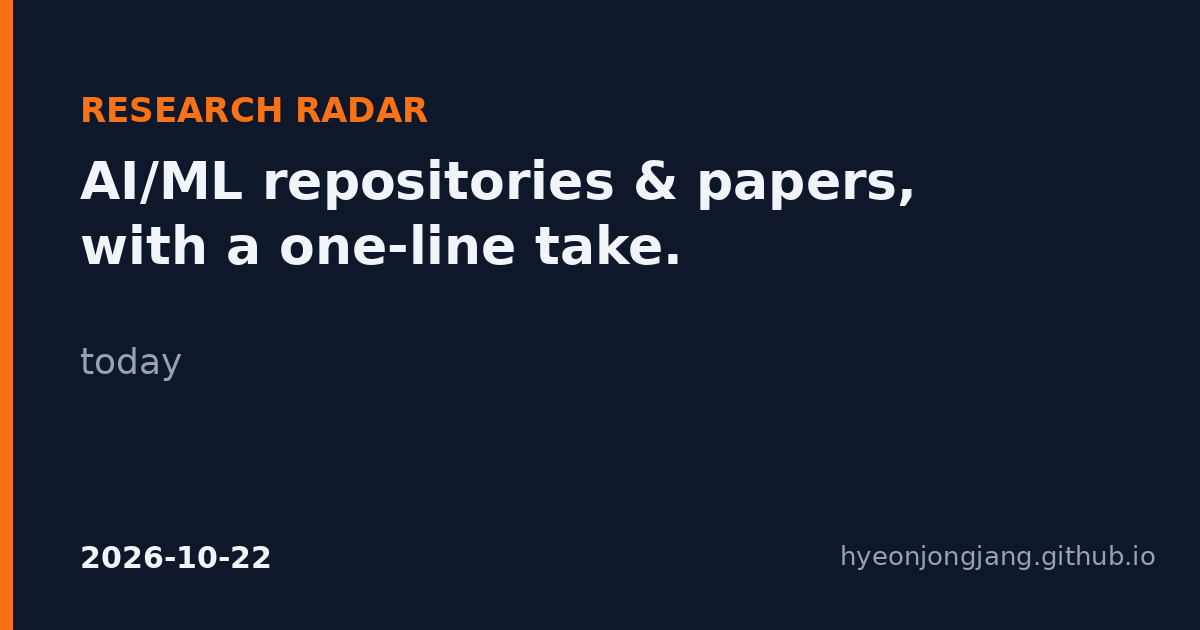
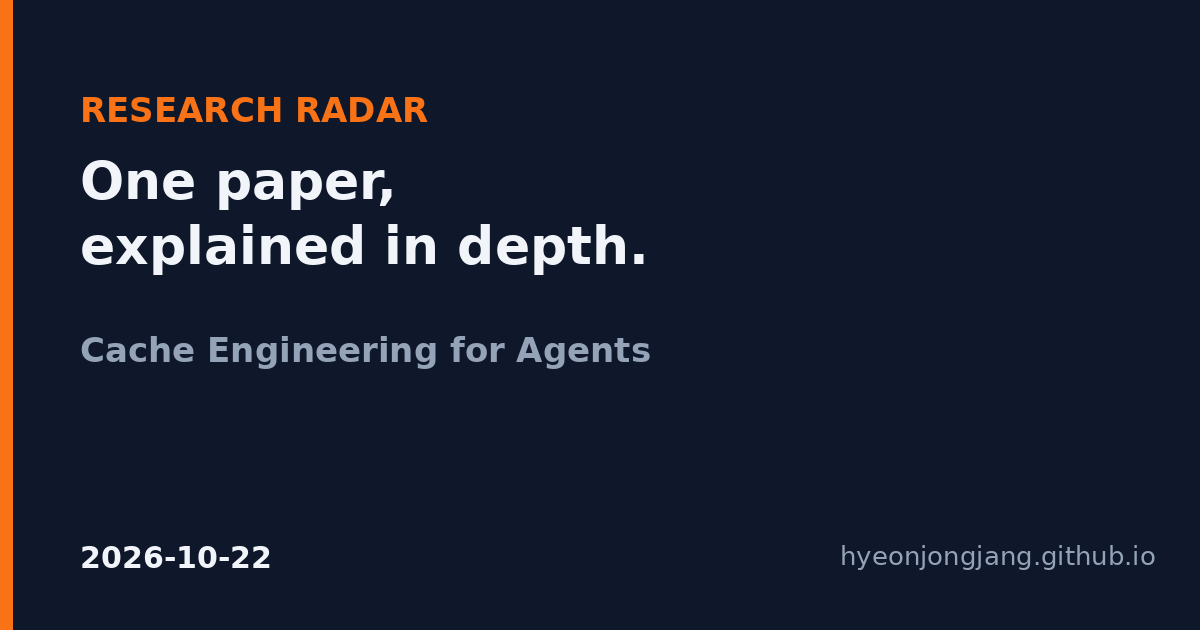
Research Radar — Cache Engineering for Agents (first deep-dive; replaces digest)
Claude-Session: https://claude.ai/code/session_01185ZjdGLJL2aTpAjwBrivJ

Changed region(s): [[0.0617, 0.2413, 0.7708, 0.4524], [0.0617, 0.5127, 0.555, 0.6032]]

diff --git a/_posts/2026-10-22-research-radar.md b/_posts/2026-10-22-research-radar.md
@@ -1,12 +1,12 @@
 ---
-title: "Research Radar — Oct 22, 2026"
+title: "Cache Engineering for Agents: letting LLM agents manage their own KV cache"
 date: 2026-10-22
-excerpt: "ESP32-based iPhone automation, audio for coding agents, and a quant-trading benchmark where no LLM beats the market."
+excerpt: "Agents directly control their KV cache with drop and reposition operations, avoiding costly re-prefill while retaining more useful context."
 tags:
-  - research-radar
+  - paper-dive
+  - kv-cache
   - llm-agents
-  - hardware-automation
-  - quantitative-finance
+  - inference-efficiency
 header:
   teaser: /images/radar/2026-10-22-card.png
 lang: en
@@ -15,93 +15,102 @@ translated_url: /blog/2026-10-22-research-radar-ko/
 
 [EN](/blog/2026-10-22-research-radar/) · [한국어](/blog/2026-10-22-research-radar-ko/)
 
-*A $7 iPhone agent hack, ears for coding assistants, and a quant benchmark that humbles frontier models.*
+*Agents can directly drop and reposition entries in their KV cache — no text rewriting, no re-prefill — improving both accuracy and cost over conventional context summarization.*
 
-## Repositories
+## The problem
 
-### esp32-iphone-agent — $7 ESP32 turns an iPhone into an AI-controlled device
-[`onehumanbeing/esp32-iphone-agent`](https://github.com/onehumanbeing/esp32-iphone-agent) · C · 3,496 stars
+LLM agents tackle complex tasks by building up long trajectories of reasoning steps, tool calls, and observations. Each new step conditions on the full history via the key-value (KV) cache — the data structure that stores previous tokens' representations so the model doesn't recompute them from scratch.
 
-- **What's new:** Uses AirPlay for screen capture and USB HID for input, letting any OpenAI-compatible vision model operate a real iPhone through a $7 ESP32. No Mac, developer account, or jailbreak required.
-- **Why it matters:** Drops the cost of phone-based agent research from expensive setups to commodity hardware.
-- **Caveat:** README-only read; no data on latency, reliability, or which tasks the agent can actually complete.
-- **Take:** Clever reuse of AirPlay + HID to sidestep Apple's walled garden — curious how long before it gets patched out.
+As trajectories grow, the KV cache becomes expensive. According to the paper, KV cache reads account for 82.4% of total API cost in their agent workload analysis. Beyond cost, when the number of cached states or their positional range exceeds what the LLM handles reliably, task accuracy degrades.
 
-### earshot — audio perception for coding agents
-[`Leonxlnx/earshot`](https://github.com/Leonxlnx/earshot) · Python · 2,061 stars
+The standard fix is *context engineering*: trim or summarize older messages to shrink the context. But editing any earlier part of the trajectory invalidates all KV states computed after that point. The serving system must re-prefill — recompute — the retained suffix, and the earlier the edit, the more recomputation is needed.
 
-- **What's new:** Gives coding agents the ability to hear, review, and generate sound, running entirely on CPU with no GPU requirement.
-- **Why it matters:** Most agent toolkits treat the world as text and images; adding audio opens tasks like debugging sonification pipelines or reviewing media output.
-- **Caveat:** README-only read; scope of supported audio tasks and integration with existing agent frameworks is unclear.
-- **Take:** A niche but real gap — agents that can't hear can't verify anything that makes noise.
+In practice, agent harnesses defer context reduction until a threshold is hit, then aggressively cut most history, keeping only a few recent rounds. This creates a dilemma: retain too much and pay for re-prefill, retain too little and lose information the agent needs.
 
-## Papers
+On the BrowseComp-Plus benchmark with GPT-OSS-120B, summary-based context engineering at a 48K-token threshold reduced cost by about 7% but dropped accuracy by 5 percentage points compared to full-context inference.
 
-### Quant-Arena: Benchmarking LLM Agents for Quantitative Trading Research
-[arXiv 2610.30113v1](http://arxiv.org/abs/2610.30113v1) · Qian et al. · 2026
+## The core idea
 
-- **Claim:** Proposes an end-to-end benchmark on real A-share data where LLMs build features, write scoring code with 2022–2023 feedback, then freeze one strategy for sealed 2024 evaluation. Nine frontier models tested; GPT-6 Astra scored highest, yet none beat the equal-weight market in 2024.
-- **Why it matters:** Tests the full quant-research loop with a sealed out-of-sample year, raising the bar above formula- or code-only benchmarks.
-- **Caveat:** Abstract-only read; A-share market specifics may limit generalizability; order-book impact is simulated.
-- **Take:** The headline — no model beats a naive baseline on unseen data — is the most useful number here.
+Cache engineering flips the approach. Instead of editing the *text* of the trajectory and recomputing downstream cache, the agent edits the *cache itself* — marking certain KV entries as invisible to future attention — while leaving the text trajectory untouched.
 
-## Sources
+Here is an analogy (mine, not the authors'): imagine you're in a long meeting with detailed minutes being kept. Context engineering is like going back and crossing out paragraphs in the minutes, then asking everyone to re-read from the edit point to get back on track. Cache engineering is more like putting on selective noise-canceling headphones: the minutes stay intact, but you stop listening to certain earlier speakers. Everyone's prior responses still carry traces of what those speakers said — they just no longer get direct attention going forward.
 
-- [onehumanbeing/esp32-iphone-agent](https://github.com/onehumanbeing/esp32-iphone-agent)
-- [Leonxlnx/earshot](https://github.com/Leonxlnx/earshot)
-- [Quant-Arena: Benchmarking LLM Agents for Quantitative Trading Research (arXiv 2610.30113v1)](http://arxiv.org/abs/2610.30113v1)
+This matters because retained KV states can still carry information from dropped history, since they were originally computed with attention to it. The paper cites prior work (Xiao et al., 2024; Fu et al., 2026; Zou et al., 2025) supporting this residual-information property. Dropping a cache entry is less destructive than deleting the text that produced it.
 
----
+The paper introduces three cache operations — **append**, **drop**, and **repos** (reposition) — and co-designs a serving engine called **AKV** that makes this scheme practical.
 
----
-title: "Research Radar — 2026년 10월 22일"
-date: 2026-10-22
-excerpt: "ESP32 기반 iPhone 자동화, 코딩 에이전트를 위한 오디오, 그리고 어떤 LLM도 시장을 이기지 못한 퀀트 벤치마크."
-tags:
-  - research-radar
-  - llm-agents
-  - hardware-automation
-  - quantitative-finance
-header:
-  teaser: /images/radar/2026-10-22-card.png
-lang: ko
-translated_url: /blog/2026-10-22-research-radar/
----
+## How it works
 
-[EN](/blog/2026-10-22-research-radar/) · [한국어](/blog/2026-10-22-research-radar-ko/)
+### The three cache operations
 
-*7달러짜리 iPhone 에이전트 해킹, 코딩 어시스턴트를 위한 청각, 프런티어 모델을 겸손하게 만드는 퀀트 벤치마크.*
+**Append** is the standard operation: process a new token, compute its KV entry conditioned on the active cache, and concatenate it to the cache. Every LLM serving system already does this.
 
-## 저장소
+**Drop** removes selected KV entries from future attention. It does *not* change retained entries' states or position encodings, and it does *not* modify the logical token sequence. The text history stays the same; only the cache visible to subsequent attention shrinks.
 
-### esp32-iphone-agent — 7달러 ESP32로 iPhone을 AI 제어 장치로 전환
-[`onehumanbeing/esp32-iphone-agent`](https://github.com/onehumanbeing/esp32-iphone-agent) · C · 3,496 스타
+**Repos** (reposition) updates the position encodings stored in cached keys. After dropping entries, position indices can have gaps or grow large enough to hit the model's context limit even though the actual cache is small. Repos compacts them: with $$ r $$ entries remaining, their position indices become 0 through $$ r-1 $$, and the next appended token uses index $$ r $$. For models using Rotary Position Embeddings (RoPE), this is achieved by rotating cached keys without recomputing hidden states.
 
-- **새로운 점:** AirPlay로 화면을 캡처하고 USB HID로 입력을 전달하여, OpenAI 호환 비전 모델이 7달러짜리 ESP32를 통해 실제 iPhone을 조작할 수 있게 한다. Mac, 개발자 계정, 탈옥 모두 불필요.
-- **왜 중요한가:** 폰 기반 에이전트 연구 비용을 고가 장비에서 범용 하드웨어 수준으로 낮춘다.
-- **주의점:** README만 확인함; 지연시간, 안정성, 실제 수행 가능한 작업 범위에 대한 데이터 없음.
-- **Take:** AirPlay + HID를 활용해 Apple의 폐쇄 생태계를 우회하는 영리한 접근 — Apple이 얼마나 빨리 막을지 궁금하다.
+### The history dependence problem
 
-### earshot — 코딩 에이전트를 위한 오디오 인식
-[`Leonxlnx/earshot`](https://github.com/Leonxlnx/earshot) · Python · 2,061 스타
+With standard KV caching, the token prefix fully determines the cache state — if two requests share the same token prefix, they share the same cache. Cache engineering breaks this property.
 
-- **새로운 점:** 코딩 에이전트에게 소리를 듣고, 검토하고, 생성하는 능력을 부여하며, GPU 없이 CPU만으로 동작한다.
-- **왜 중요한가:** 대부분의 에이전트 툴킷은 텍스트와 이미지만 다루는데, 오디오를 추가하면 음향 파이프라인 디버깅이나 미디어 출력 검토 같은 작업이 가능해진다.
-- **주의점:** README만 확인함; 지원하는 오디오 작업 범위와 기존 에이전트 프레임워크와의 통합 수준이 불분명.
-- **Take:** 틈새지만 실재하는 공백 — 들을 수 없는 에이전트는 소리를 내는 것을 검증할 수 없다.
+An analogy (mine, not the authors'): think of two chefs following the same recipe with the same final ingredient list, but one added salt before sautéing the onions while the other added it after. The final dishes share the same ingredients on paper, but taste different because the salt changed how earlier steps proceeded. Similarly, two trajectories can retain the same tokens at the same positions, yet have different cache states because drop and append operations occurred in different orders.
 
-## 논문
+The paper illustrates this concretely (see Figure 5 in the paper): three trajectories all retain tokens B and C. In trajectory 1, C is computed while A is still in the cache. In trajectory 2, A is dropped before C is appended. In trajectory 3, B is computed without A entirely. C's KV states differ in all three cases because the attention context during C's computation differed.
 
-### Quant-Arena: Benchmarking LLM Agents for Quantitative Trading Research
-[arXiv 2610.30113v1](http://arxiv.org/abs/2610.30113v1) · Qian et al. · 2026
+Prefix matching — the standard technique for cache reuse in serving systems — is therefore no longer sufficient.
 
-- **주장:** 실제 A주 시장 데이터에서 LLM이 피처를 구축하고, 2022–2023 피드백으로 스코어링 코드를 작성한 뒤, 봉인된 2024년 평가용 전략을 확정하는 엔드투엔드 벤치마크를 제안한다. 9개 프런티어 모델을 테스트한 결과, GPT-6 Astra가 최고점을 기록했으나 어떤 모델도 2024년에 동일가중 시장 수익률을 넘지 못했다.
-- **왜 중요한가:** 수식·코드 단위 벤치마크를 넘어, 봉인된 표본외 기간으로 전체 퀀트 연구 루프를 검증한다.
-- **주의점:** 초록만 확인함; A주 시장의 특수성이 일반화를 제한할 수 있으며, 호가창 충격 모델은 시뮬레이션 기반.
-- **Take:** 어떤 모델도 미지 데이터에서 단순 기준선을 이기지 못했다는 헤드라인 결과가 이 논문에서 가장 유용한 숫자다.
+### The AKV serving engine
 
-## 출처
+AKV follows a principle the authors call *stateless interface, stateful serving*. The agent submits requests in a familiar format — a messages array plus an optional cache field specifying drop and repos operations — without tracking what the server has physically cached. The server handles all the complexity internally.
 
-- [onehumanbeing/esp32-iphone-agent](https://github.com/onehumanbeing/esp32-iphone-agent)
-- [Leonxlnx/earshot](https://github.com/Leonxlnx/earshot)
-- [Quant-Arena: Benchmarking LLM Agents for Quantitative Trading Research (arXiv 2610.30113v1)](http://arxiv.org/abs/2610.30113v1)
+AKV addresses three challenges:
+
+**Correct reuse** via an extended radix tree. Standard radix trees index cache by token prefix. AKV inserts *drop nodes* at points where drop operations occur, branching the tree so that trajectories with different operation histories maintain distinct cache states.
+
+**Safe eviction** with drop-awareness. When a request drops a cache entry, other requests sharing the same prefix might still need it. AKV frees physical storage only when no ongoing request needs the entry, and prioritizes evicting dropped cache over cache from completed requests (which is more likely to be reused in the next round).
+
+**Efficient restoration** via segment-batch attention. When evicted cache must be restored, AKV reconstructs it in a single forward pass by splitting queries at operation boundaries. Each segment attends causally to its own tokens and to active cache from earlier segments, respecting the history of drops and repositions. Only attention is segmented; the FFN processes the full sequence as one batch, avoiding redundant weight reads.
+
+## The math
+
+The drop operation on the active cache is defined as:
+
+$$\operatorname{drop}(P): \quad \mathcal{C} \leftarrow \mathcal{C} \setminus \{C_i : i \in P\}$$
+
+Here $$ \mathcal{C} $$ is the active cache — the ordered set of KV entries available to future attention. $$ P $$ is the set of logical token indices selected for removal. $$ C_i $$ is the cache entry for the token at index $$ i $$. The backslash ($$ \setminus $$) denotes set removal: take the active cache and discard every entry whose index is in $$ P $$, preserving the order of what remains. After this operation, subsequent tokens cannot attend to the dropped entries, but the dropped entries' influence persists indirectly in retained entries that were computed while those entries were still active.
+
+The repos operation adjusts position encodings via RoPE rotation:
+
+$$K \leftarrow R(q) \, R(p)^{-1} \, K$$
+
+$$ K $$ is a cached key vector. $$ p $$ is its current position encoding index. $$ q $$ is the target position index. $$ R(p) $$ is the RoPE rotation matrix at position $$ p $$ — the matrix that encodes positional information into keys during the original computation. $$ R(p)^{-1} $$ undoes the original rotation, and $$ R(q) $$ applies the new one. The whole expression moves the key from position $$ p $$ to position $$ q $$ without recomputing the hidden state that produced it. Cached values remain unchanged since RoPE applies only to keys and queries, not values.
+
+## Results
+
+The authors evaluate across three LLMs — MiniMax-M2.7 (230B total, 10B active parameters), GPT-OSS-120B (5.1B active), and MiroThinker-1.7-Mini (30B total, 3B active) — on four benchmarks: BrowseComp-Plus (deep research), GAIA-Text (general QA), SWE-bench Verified (software engineering), and xbench-DeepSearch-2510 (deep search).
+
+**Accuracy.** AKV's tool-response rolling-drop policy (retaining the 12 most recent tool responses' KV) improves the average benchmark score by 1.7 points over the Standard baseline and by 0.9 to 8.7 points over Text Engineering, depending on the model. Gains are most pronounced on longer trajectories: on BrowseComp-Plus with GPT-OSS-120B, AKV scores 61.9% versus Standard's 57.5% and Text Engineering's 52.7%.
+
+**Cost.** AKV reduces average per-task cost by 27.7% relative to Standard and 21.9% relative to Text Engineering, across all models and benchmarks. For GPT-OSS-120B specifically, the average per-task cost drops from 11.2 cents (Standard) to 7.3 cents (AKV).
+
+**Serving efficiency.** On the top-80 SWE-bench Verified tasks with GPT-OSS-120B, AKV at concurrency 14 achieves a 1.51x speedup in P95 request latency over Standard at its peak concurrency of 12 (28.49s vs 43.16s). Output throughput reaches 369 tokens/s versus Standard's 313 tokens/s (1.18x), and input throughput is 1.53x higher. The advantage widens at higher concurrency as KV-cache pressure increases Standard's re-prefill work.
+
+**Ablations.** Tool-response drop with repos achieves the highest pass rates. On BrowseComp-Plus with GPT-OSS-120B, adding repos raises pass rate from 55% to 62%, allowing exploration beyond the position limit. Dropping reasoning cache hurts more than dropping tool-response cache — consistent with the attention analysis showing older tool responses receive less attention than assistant messages at comparable positions.
+
+**Recursive self-improvement (RSI).** Using MiniMax-M2.7 to refine cache policies on 20 BrowseComp-Plus tasks, then evaluating on 100 held-out tasks, RSI iterations 3 and 6 reduce per-task cost by 15.6% and 17.8% over Standard while maintaining accuracy.
+
+**Cache-as-tool.** Exposing cache operations as agent tools allows the agent to proactively decide when and what to drop. On a 100-task BrowseComp-Plus subset, this achieves the highest pass rates: 61.0% for GPT-OSS-120B and 64.0% for MiniMax-M2.7.
+
+## Limitations & what's not covered
+
+The authors identify three directions as future work: further exploration of cache engineering strategies, training agents under this scheme (current experiments use inference-time policies only), and extending serving support to linear attention models, which use different state representations than standard KV caches.
+
+This explainer focuses on the core mechanism and benchmark results. The paper includes detailed serving implementation specifics (segment-batch attention internals, reposition-aware radix tree matching rules, the full API grammar), cost accounting methodology, and per-layer attention-pattern analyses — see Appendices A.1 through A.4 in the paper for those details.
+
+## Why it matters
+
+Cache engineering reframes a systems problem — KV cache management — as an agent-level decision, giving models direct control over what they attend to without the destructive rewrite-and-recompute cycle of context engineering. In my view, the idea that agents should manage their own memory at the cache level, not just the text level, is a natural and likely durable shift in how we build long-horizon agent infrastructure.
+
+## Source
+
+Tianyu Fu, Ruoxi Wang, Zihan Min, Zhongqi Ren, Zhihao Li, Tengxuan Liu, Shengxu Mu, Hanling Zhang, Yu Wang. *Cache Engineering for Agents.* arXiv:2610.28577, October 2026. [Paper link](https://arxiv.org/abs/2610.28577). Code: [https://github.com/thu-nics/AKV](https://github.com/thu-nics/AKV).

diff --git a/_posts/2026-10-22-research-radar-ko.md b/_posts/2026-10-22-research-radar-ko.md
@@ -1,12 +1,12 @@
 ---
-title: "Research Radar — 2026년 10월 22일"
+title: "에이전트를 위한 캐시 엔지니어링: LLM 에이전트가 자체 KV 캐시를 관리하는 방법"
 date: 2026-10-22
-excerpt: "ESP32 기반 iPhone 자동화, 코딩 에이전트를 위한 오디오, 그리고 어떤 LLM도 시장을 이기지 못한 퀀트 벤치마크."
+excerpt: "에이전트가 drop 및 reposition 연산으로 KV 캐시를 직접 제어하여, 비용이 큰 재-프리필 없이 더 유용한 컨텍스트를 유지하며 정확도와 비용을 동시에 개선합니다."
 tags:
-  - research-radar
+  - paper-dive
+  - kv-cache
   - llm-agents
-  - hardware-automation
-  - quantitative-finance
+  - inference-efficiency
 header:
   teaser: /images/radar/2026-10-22-card.png
 lang: ko
@@ -15,38 +15,102 @@ translated_url: /blog/2026-10-22-research-radar/
 
 [EN](/blog/2026-10-22-research-radar/) · [한국어](/blog/2026-10-22-research-radar-ko/)
 
-*7달러짜리 iPhone 에이전트 해킹, 코딩 어시스턴트를 위한 청각, 프런티어 모델을 겸손하게 만드는 퀀트 벤치마크.*
+*에이전트가 KV 캐시의 항목을 직접 삭제(drop)하고 재배치(reposition)할 수 있습니다 — 텍스트 재작성이나 재-프리필 없이 — 기존의 컨텍스트 요약 방식 대비 정확도와 비용 모두를 개선합니다.*
 
-## 저장소
+## 문제
 
-### esp32-iphone-agent — 7달러 ESP32로 iPhone을 AI 제어 장치로 전환
-[`onehumanbeing/esp32-iphone-agent`](https://github.com/onehumanbeing/esp32-iphone-agent) · C · 3,496 스타
+LLM 에이전트는 추론 단계, 도구 호출, 관측 결과로 이루어진 긴 궤적(trajectory)을 쌓아가며 복잡한 작업을 수행합니다. 각각의 새로운 단계는 KV 캐시(key-value cache) — 이전 토큰의 표현을 저장하여 모델이 처음부터 다시 계산하지 않도록 하는 자료 구조 — 를 통해 전체 히스토리에 조건부로 의존합니다.
 
-- **새로운 점:** AirPlay로 화면을 캡처하고 USB HID로 입력을 전달하여, OpenAI 호환 비전 모델이 7달러짜리 ESP32를 통해 실제 iPhone을 조작할 수 있게 한다. Mac, 개발자 계정, 탈옥 모두 불필요.
-- **왜 중요한가:** 폰 기반 에이전트 연구 비용을 고가 장비에서 범용 하드웨어 수준으로 낮춘다.
-- **주의점:** README만 확인함; 지연시간, 안정성, 실제 수행 가능한 작업 범위에 대한 데이터 없음.
-- **Take:** AirPlay + HID를 활용해 Apple의 폐쇄 생태계를 우회하는 영리한 접근 — Apple이 얼마나 빨리 막을지 궁금하다.
+궤적이 길어지면 KV 캐시 비용이 커집니다. 논문에 따르면, 에이전트 워크로드 분석에서 KV 캐시 읽기가 전체 API 비용의 82.4%를 차지합니다. 비용 외에도, 캐시된 상태의 수나 위치 범위가 LLM이 안정적으로 처리할 수 있는 한계를 넘어서면 작업 정확도가 떨어집니다.
 
-### earshot — 코딩 에이전트를 위한 오디오 인식
-[`Leonxlnx/earshot`](https://github.com/Leonxlnx/earshot) · Python · 2,061 스타
+일반적인 해결책은 *컨텍스트 엔지니어링(context engineering)*입니다: 오래된 메시지를 잘라내거나 요약하여 컨텍스트를 줄이는 것입니다. 그러나 궤적의 앞부분을 수정하면 그 이후에 계산된 모든 KV 상태가 무효화됩니다. 서빙 시스템은 유지되는 접미 부분을 재-프리필(re-prefill) — 재계산 — 해야 하며, 수정 지점이 앞쪽일수록 더 많은 재계산이 필요합니다.
 
-- **새로운 점:** 코딩 에이전트에게 소리를 듣고, 검토하고, 생성하는 능력을 부여하며, GPU 없이 CPU만으로 동작한다.
-- **왜 중요한가:** 대부분의 에이전트 툴킷은 텍스트와 이미지만 다루는데, 오디오를 추가하면 음향 파이프라인 디버깅이나 미디어 출력 검토 같은 작업이 가능해진다.
-- **주의점:** README만 확인함; 지원하는 오디오 작업 범위와 기존 에이전트 프레임워크와의 통합 수준이 불분명.
-- **Take:** 틈새지만 실재하는 공백 — 들을 수 없는 에이전트는 소리를 내는 것을 검증할 수 없다.
+실제로 에이전트 하네스(harness)는 임계값에 도달할 때까지 컨텍스트 축소를 미루다가, 한꺼번에 대부분의 히스토리를 잘라내고 최근 몇 라운드만 남깁니다. 이는 딜레마를 만듭니다: 너무 많이 유지하면 재-프리필 비용을 지불하고, 너무 적게 유지하면 에이전트에게 필요한 정보를 잃게 됩니다.
 
-## 논문
+BrowseComp-Plus 벤치마크에서 GPT-OSS-120B를 사용한 경우, 48K 토큰 임계값의 요약 기반 컨텍스트 엔지니어링은 비용을 약 7% 줄였지만, 전체 컨텍스트 추론 대비 정확도를 5 퍼센트포인트 떨어뜨렸습니다.
 
-### Quant-Arena: Benchmarking LLM Agents for Quantitative Trading Research
-[arXiv 2610.30113v1](http://arxiv.org/abs/2610.30113v1) · Qian et al. · 2026
+## 핵심 아이디어
 
-- **주장:** 실제 A주 시장 데이터에서 LLM이 피처를 구축하고, 2022–2023 피드백으로 스코어링 코드를 작성한 뒤, 봉인된 2024년 평가용 전략을 확정하는 엔드투엔드 벤치마크를 제안한다. 9개 프런티어 모델을 테스트한 결과, GPT-6 Astra가 최고점을 기록했으나 어떤 모델도 2024년에 동일가중 시장 수익률을 넘지 못했다.
-- **왜 중요한가:** 수식·코드 단위 벤치마크를 넘어, 봉인된 표본외 기간으로 전체 퀀트 연구 루프를 검증한다.
-- **주의점:** 초록만 확인함; A주 시장의 특수성이 일반화를 제한할 수 있으며, 호가창 충격 모델은 시뮬레이션 기반.
-- **Take:** 어떤 모델도 미지 데이터에서 단순 기준선을 이기지 못했다는 헤드라인 결과가 이 논문에서 가장 유용한 숫자다.
+캐시 엔지니어링(cache engineering)은 접근 방식을 뒤집습니다. 궤적의 *텍스트*를 편집하고 이후 캐시를 재계산하는 대신, 에이전트가 *캐시 자체*를 편집합니다 — 특정 KV 항목을 이후 어텐션에서 보이지 않도록 표시하면서 — 텍스트 궤적은 그대로 유지합니다.
+
+비유를 하나 들겠습니다(저의 비유이며 저자들의 것이 아닙니다): 상세한 회의록이 작성되는 긴 회의에 참석하고 있다고 상상해 보세요. 컨텍스트 엔지니어링은 회의록으로 돌아가 문단을 지운 뒤, 참석자 모두에게 수정 지점부터 다시 읽어 흐름을 따라잡으라고 하는 것과 같습니다. 캐시 엔지니어링은 선택적 노이즈 캔슬링 헤드폰을 쓰는 것에 가깝습니다: 회의록은 그대로지만, 특정 이전 발언자의 목소리를 더 이상 듣지 않게 되는 것입니다. 다른 참석자들의 이전 응답에는 그 발언자가 말한 내용의 흔적이 여전히 남아 있습니다 — 다만 이후로는 직접적인 어텐션을 받지 않을 뿐입니다.
+
+이것이 중요한 이유는, 유지된 KV 상태가 삭제된 히스토리의 정보를 여전히 간직할 수 있기 때문입니다 — 원래 그 히스토리에 어텐션하며 계산되었으므로. 논문은 이러한 잔여 정보(residual information) 속성을 뒷받침하는 선행 연구(Xiao et al., 2024; Fu et al., 2026; Zou et al., 2025)를 인용합니다. 캐시 항목을 삭제하는 것은 그것을 생성한 텍스트를 삭제하는 것보다 덜 파괴적입니다.
+
+논문은 세 가지 캐시 연산 — **append**, **drop**, **repos**(reposition) — 을 도입하고, 이 체계를 실용적으로 만드는 **AKV**라는 서빙 엔진을 함께 설계합니다.
+
+## 작동 방식
+
+### 세 가지 캐시 연산
+
+**Append**는 표준 연산입니다: 새 토큰을 처리하고, 활성 캐시에 조건부로 KV 항목을 계산한 뒤, 캐시에 이어붙입니다. 모든 LLM 서빙 시스템이 이미 이 연산을 수행합니다.
+
+**Drop**은 선택된 KV 항목을 이후 어텐션에서 제거합니다. 유지된 항목의 상태나 위치 인코딩을 변경하지 *않으며*, 논리적 토큰 시퀀스도 수정하지 *않습니다*. 텍스트 히스토리는 그대로이고, 후속 어텐션에 보이는 캐시만 줄어듭니다.
+
+**Repos**(reposition)는 캐시된 키에 저장된 위치 인코딩(position encoding)을 갱신합니다. 항목을 삭제한 후, 위치 인덱스에 빈 구간이 생기거나, 실제 캐시 크기는 작은데도 모델의 컨텍스트 한계에 도달할 만큼 위치 인덱스가 커질 수 있습니다. Repos는 이를 압축합니다: 남은 항목이 $$ r $$개이면, 위치 인덱스를 0부터 $$ r-1 $$로 재배정하고, 다음 추가되는 토큰은 인덱스 $$ r $$을 사용합니다. RoPE(Rotary Position Embeddings)를 사용하는 모델에서는 은닉 상태를 재계산하지 않고 캐시된 키를 회전시키는 방식으로 구현됩니다.
+
+### 히스토리 의존성 문제
+
+표준 KV 캐싱에서는 토큰 접두사가 캐시 상태를 완전히 결정합니다 — 두 요청이 같은 토큰 접두사를 공유하면, 같은 캐시를 공유합니다. 캐시 엔지니어링은 이 속성을 깨뜨립니다.
+
+비유를 하나 들겠습니다(저의 비유이며 저자들의 것이 아닙니다): 같은 레시피로 같은 최종 재료 목록을 사용하는 두 셰프를 생각해 보세요. 한 명은 양파를 볶기 전에 소금을 넣었고, 다른 한 명은 볶은 후에 넣었습니다. 최종 요리는 서류상 같은 재료를 공유하지만, 소금이 이전 단계의 진행 방식을 바꿨기 때문에 맛이 다릅니다. 마찬가지로, 두 궤적이 같은 위치에 같은 토큰을 유지하고 있더라도, drop과 append 연산이 다른 순서로 수행되었다면 캐시 상태는 달라집니다.
+
+논문은 이를 구체적으로 보여줍니다(논문의 Figure 5 참조): 세 궤적 모두 토큰 B와 C를 유지합니다. 궤적 1에서는 A가 아직 캐시에 있는 상태에서 C가 계산됩니다. 궤적 2에서는 C가 추가되기 전에 A가 삭제됩니다. 궤적 3에서는 B가 A 없이 처음부터 계산됩니다. C의 KV 상태는 세 경우 모두 다른데, C를 계산할 때의 어텐션 컨텍스트가 각각 달랐기 때문입니다.
+
+접두사 매칭(prefix matching) — 서빙 시스템에서 캐시를 재사용하는 표준 기법 — 만으로는 더 이상 충분하지 않습니다.
+
+### AKV 서빙 엔진
+
+AKV는 저자들이 *무상태 인터페이스, 유상태 서빙(stateless interface, stateful serving)*이라고 부르는 원칙을 따릅니다. 에이전트는 익숙한 형식 — 메시지 배열과 drop 및 repos 연산을 지정하는 선택적 cache 필드 — 으로 요청을 보내며, 서버가 물리적으로 무엇을 캐싱했는지 추적할 필요가 없습니다. 서버가 모든 복잡성을 내부적으로 처리합니다.
+
+AKV는 세 가지 과제를 해결합니다:
+
+**확장된 기수 트리(radix tree)를 통한 올바른 재사용.** 표준 기수 트리는 토큰 접두사로 캐시를 인덱싱합니다. AKV는 drop 연산이 발생하는 지점에 *drop 노드*를 삽입하여, 서로 다른 연산 히스토리를 가진 궤적이 별도의 캐시 상태를 유지하도록 트리를 분기시킵니다.
+
+**Drop 인식 안전한 퇴출(eviction).** 한 요청이 캐시 항목을 drop해도, 같은 접두사를 공유하는 다른 요청은 여전히 그 항목이 필요할 수 있습니다. AKV는 어떤 진행 중인 요청도 해당 항목을 필요로 하지 않을 때만 물리적 저장소를 해제하고, 완료된 요청의 캐시(다음 라운드에서 재사용될 가능성이 더 높은)보다 drop된 캐시를 우선 퇴출합니다.
+
+**세그먼트-배치 어텐션(segment-batch attention)을 통한 효율적 복원.** 퇴출된 캐시를 복원해야 할 때, AKV는 연산 경계에서 쿼리를 분할하여 단일 순방향 패스로 재구성합니다. 각 세그먼트는 자체 토큰에 대해 인과적(causal) 어텐션을 수행하고, 이전 세그먼트의 활성 캐시에도 어텐션하며, drop과 reposition의 히스토리를 존중합니다. 어텐션만 세그먼트로 나뉘고, FFN은 전체 시퀀스를 하나의 배치로 처리하여 불필요한 가중치 읽기를 방지합니다.
+
+## 수식
+
+활성 캐시에 대한 drop 연산은 다음과 같이 정의됩니다:
+
+$$\operatorname{drop}(P): \quad \mathcal{C} \leftarrow \mathcal{C} \setminus \{C_i : i \in P\}$$
+
+여기서 $$ \mathcal{C} $$는 활성 캐시 — 이후 어텐션에 사용 가능한 KV 항목의 순서 집합입니다. $$ P $$는 제거 대상으로 선택된 논리적 토큰 인덱스의 집합입니다. $$ C_i $$는 인덱스 $$ i $$에 위치한 토큰의 캐시 항목입니다. 백슬래시($$ \setminus $$)는 집합 차(set removal)를 나타냅니다: 활성 캐시에서 인덱스가 $$ P $$에 속하는 항목을 모두 제거하되, 나머지 항목의 순서는 보존합니다. 이 연산 후, 후속 토큰은 삭제된 항목에 어텐션할 수 없지만, 삭제된 항목의 영향은 — 해당 항목이 아직 활성 상태일 때 계산된 — 유지된 항목에 간접적으로 남아 있습니다.
+
+Repos 연산은 RoPE 회전을 통해 위치 인코딩을 조정합니다:
+
+$$K \leftarrow R(q) \, R(p)^{-1} \, K$$
+
+$$ K $$는 캐시된 키 벡터입니다. $$ p $$는 현재 위치 인코딩 인덱스입니다. $$ q $$는 목표 위치 인덱스입니다. $$ R(p) $$는 위치 $$ p $$에서의 RoPE 회전 행렬 — 원래 계산 시 키에 위치 정보를 인코딩하는 행렬입니다. $$ R(p)^{-1} $$는 원래 회전을 되돌리고, $$ R(q) $$는 새로운 회전을 적용합니다. 전체 수식은 키를 생성한 은닉 상태를 재계산하지 않고 위치 $$ p $$에서 $$ q $$로 이동시킵니다. RoPE는 키와 쿼리에만 적용되고 값(value)에는 적용되지 않으므로, 캐시된 값은 변경되지 않습니다.
+
+## 결과
+
+저자들은 세 가지 LLM — MiniMax-M2.7(총 230B, 활성 10B 파라미터), GPT-OSS-120B(활성 5.1B), MiroThinker-1.7-Mini(총 30B, 활성 3B) — 으로 네 가지 벤치마크에서 평가합니다: BrowseComp-Plus(심층 연구), GAIA-Text(일반 QA), SWE-bench Verified(소프트웨어 엔지니어링), xbench-DeepSearch-2510(심층 검색).
+
+**정확도.** AKV의 도구 응답 롤링-드롭(tool-response rolling-drop) 정책(최근 12개의 도구 응답 KV를 유지)은 Standard 기준선 대비 평균 벤치마크 점수를 1.7포인트 향상시키고, 모델에 따라 Text Engineering 대비 0.9~8.7포인트 향상시킵니다. 긴 궤적에서 효과가 가장 두드러집니다: GPT-OSS-120B를 사용한 BrowseComp-Plus에서 AKV는 61.9%를 기록하며, Standard의 57.5%와 Text Engineering의 52.7%를 능가합니다.
+
+**비용.** AKV는 모든 모델과 벤치마크에 걸쳐 Standard 대비 평균 작업당 비용을 27.7%, Text Engineering 대비 21.9% 절감합니다. GPT-OSS-120B의 경우, 평균 작업당 비용이 11.2센트(Standard)에서 7.3센트(AKV)로 감소합니다.
+
+**서빙 효율성.** GPT-OSS-120B를 사용한 SWE-bench Verified 상위 80개 작업에서, 동시성(concurrency) 14의 AKV는 Standard의 최대 동시성 12 대비 P95 요청 지연 시간에서 1.51배 속도 향상을 달성합니다(28.49초 vs 43.16초). 출력 처리량은 369 토큰/초로 Standard의 313 토큰/초 대비 1.18배이며, 입력 처리량은 1.53배 높습니다. 동시성이 높아질수록 KV 캐시 압력이 Standard의 재-프리필 작업을 증가시키므로 격차가 벌어집니다.
+
+**절제 실험(Ablations).** Repos를 포함한 도구 응답 drop이 가장 높은 통과율을 달성합니다. GPT-OSS-120B를 사용한 BrowseComp-Plus에서, repos를 추가하면 통과율이 55%에서 62%로 올라가며, 위치 한계를 넘어서는 탐색이 가능해집니다. 추론 캐시(reasoning cache)를 삭제하는 것이 도구 응답 캐시를 삭제하는 것보다 더 큰 성능 저하를 유발합니다 — 이는 비슷한 위치의 이전 도구 응답이 어시스턴트 메시지보다 적은 어텐션을 받는다는 어텐션 분석과 일치합니다.
+
+**재귀적 자기 개선(Recursive self-improvement, RSI).** MiniMax-M2.7을 사용하여 BrowseComp-Plus 20개 작업에서 캐시 정책을 개선한 후, 100개의 보류(held-out) 작업에서 평가한 결과, RSI 반복 3과 6은 정확도를 유지하면서 Standard 대비 작업당 비용을 각각 15.6%와 17.8% 절감합니다.
+
+**도구로서의 캐시(Cache-as-tool).** 캐시 연산을 에이전트 도구로 노출하면 에이전트가 언제 무엇을 drop할지 능동적으로 결정할 수 있습니다. BrowseComp-Plus 100개 작업 부분집합에서, 이 방식은 가장 높은 통과율을 달성합니다: GPT-OSS-120B에서 61.0%, MiniMax-M2.7에서 64.0%.
+
+## 한계 및 미다룬 내용
+
+저자들은 세 가지 방향을 향후 연구로 제시합니다: 캐시 엔지니어링 전략의 추가 탐구, 이 체계 하에서의 에이전트 훈련(현재 실험은 추론 시점 정책만 사용), 그리고 표준 KV 캐시와 다른 상태 표현을 사용하는 선형 어텐션(linear attention) 모델로의 서빙 지원 확장입니다.
+
+이 해설은 핵심 메커니즘과 벤치마크 결과에 초점을 맞춥니다. 논문에는 상세한 서빙 구현 세부사항(세그먼트-배치 어텐션 내부 구조, reposition 인식 기수 트리 매칭 규칙, 전체 API 문법), 비용 산정 방법론, 그리고 레이어별 어텐션 패턴 분석이 포함되어 있습니다 — 이러한 세부사항은 논문의 부록 A.1~A.4를 참조하세요.
+
+## 왜 중요한가
+
+캐시 엔지니어링은 시스템 문제 — KV 캐시 관리 — 를 에이전트 수준의 의사결정으로 재구성하여, 컨텍스트 엔지니어링의 파괴적인 재작성-재계산 순환 없이 모델이 어텐션 대상을 직접 제어할 수 있게 합니다. 제 견해로는, 에이전트가 텍스트 수준이 아닌 캐시 수준에서 자신의 메모리를 관리해야 한다는 아이디어는, 장기 에이전트 인프라를 구축하는 방식에 있어 자연스럽고 지속 가능한 전환입니다.
 
 ## 출처
 
-- [onehumanbeing/esp32-iphone-agent](https://github.com/onehumanbeing/esp32-iphone-agent)
-- [Leonxlnx/earshot](https://github.com/Leonxlnx/earshot)
-- [Quant-Arena: Benchmarking LLM Agents for Quantitative Trading Research (arXiv 2610.30113v1)](http://arxiv.org/abs/2610.30113v1)
+Tianyu Fu, Ruoxi Wang, Zihan Min, Zhongqi Ren, Zhihao Li, Tengxuan Liu, Shengxu Mu, Hanling Zhang, Yu Wang. *Cache Engineering for Agents.* arXiv:2610.28577, October 2026. [논문 링크](https://arxiv.org/abs/2610.28577). 코드: [https://github.com/thu-nics/AKV](https://github.com/thu-nics/AKV).
